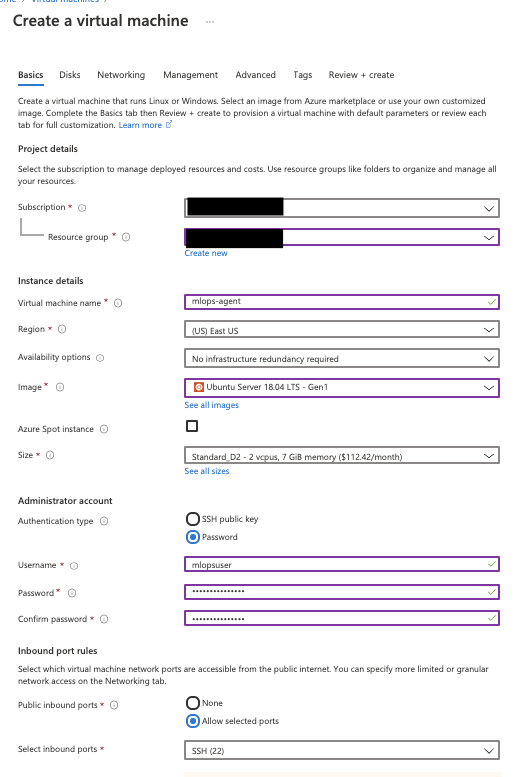
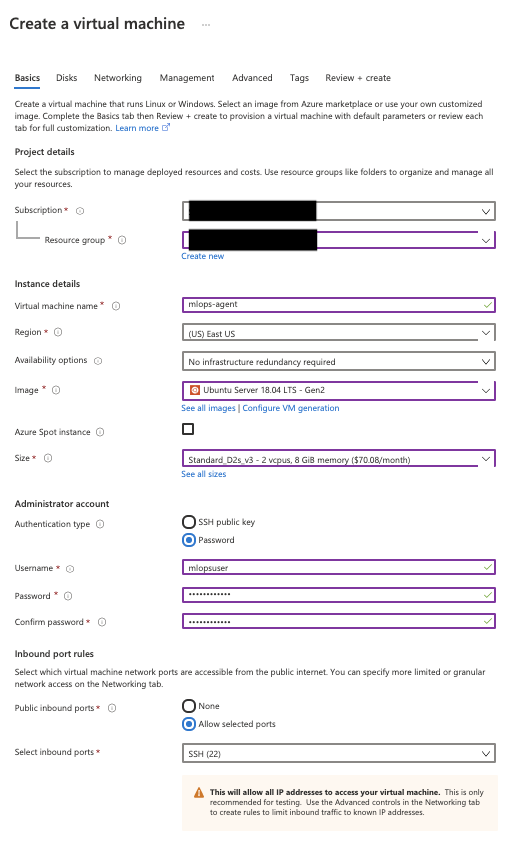
fix issue #54

diff --git a/Hands-on lab/Before the HOL - MLOps.md b/Hands-on lab/Before the HOL - MLOps.md
@@ -203,8 +203,8 @@ For this option, we will look at steps to setup and configure a self-hosted agen
     - **Resource group**: Use an existing resource group in your subscription or enter a name to create a new resource group.
     - **Virtual machine name**: **mlops-agent**
     - **Region**: Select the region closest to your users and the data resources.
-    - **Image**: **Ubuntu Server 18.04 LTS - Gen 1**
-    - **Size**: **Standard_D2**
+    - **Image**: **Ubuntu Server 18.04 LTS - Gen2**
+    - **Size**: **Standard_D2s_v3 - 2 vcpus, 8 GiB memory**
     - **Authentication type**: **password**
     - **Username**: **mlopsuser**
     - **Password**: Provide a password and save it for later use.
@@ -229,10 +229,10 @@ For this option, we will look at steps to setup and configure a self-hosted agen
 
    - `curl -sL https://aka.ms/InstallAzureCLIDeb | sudo bash`
    - `az extension add --name azure-cli-ml`
-    - `curl -O [Download the agent URL copied above]`
-        - For example, `curl -O https://vstsagentpackage.azureedge.net/agent/2.191.1/vsts-agent-linux-x64-2.191.1.tar.gz`
+   - `curl -O [Download the agent URL copied above]`
+     - For example, `curl -O https://vstsagentpackage.azureedge.net/agent/2.193.0/vsts-agent-linux-x64-2.193.0.tar.gz`
    - `mkdir myagent && cd myagent`
-   - `tar zxvf ../vsts-agent-linux-x64-2.191.1.tar.gz`
+   - `tar zxvf ../vsts-agent-linux-x64-2.193.0.tar.gz`
        - Ensure that the `tar.gz` file is the one downloaded above
    - `./config.sh`
        - Accept the Team Explorer Everywhere license agreement now? `Y`
